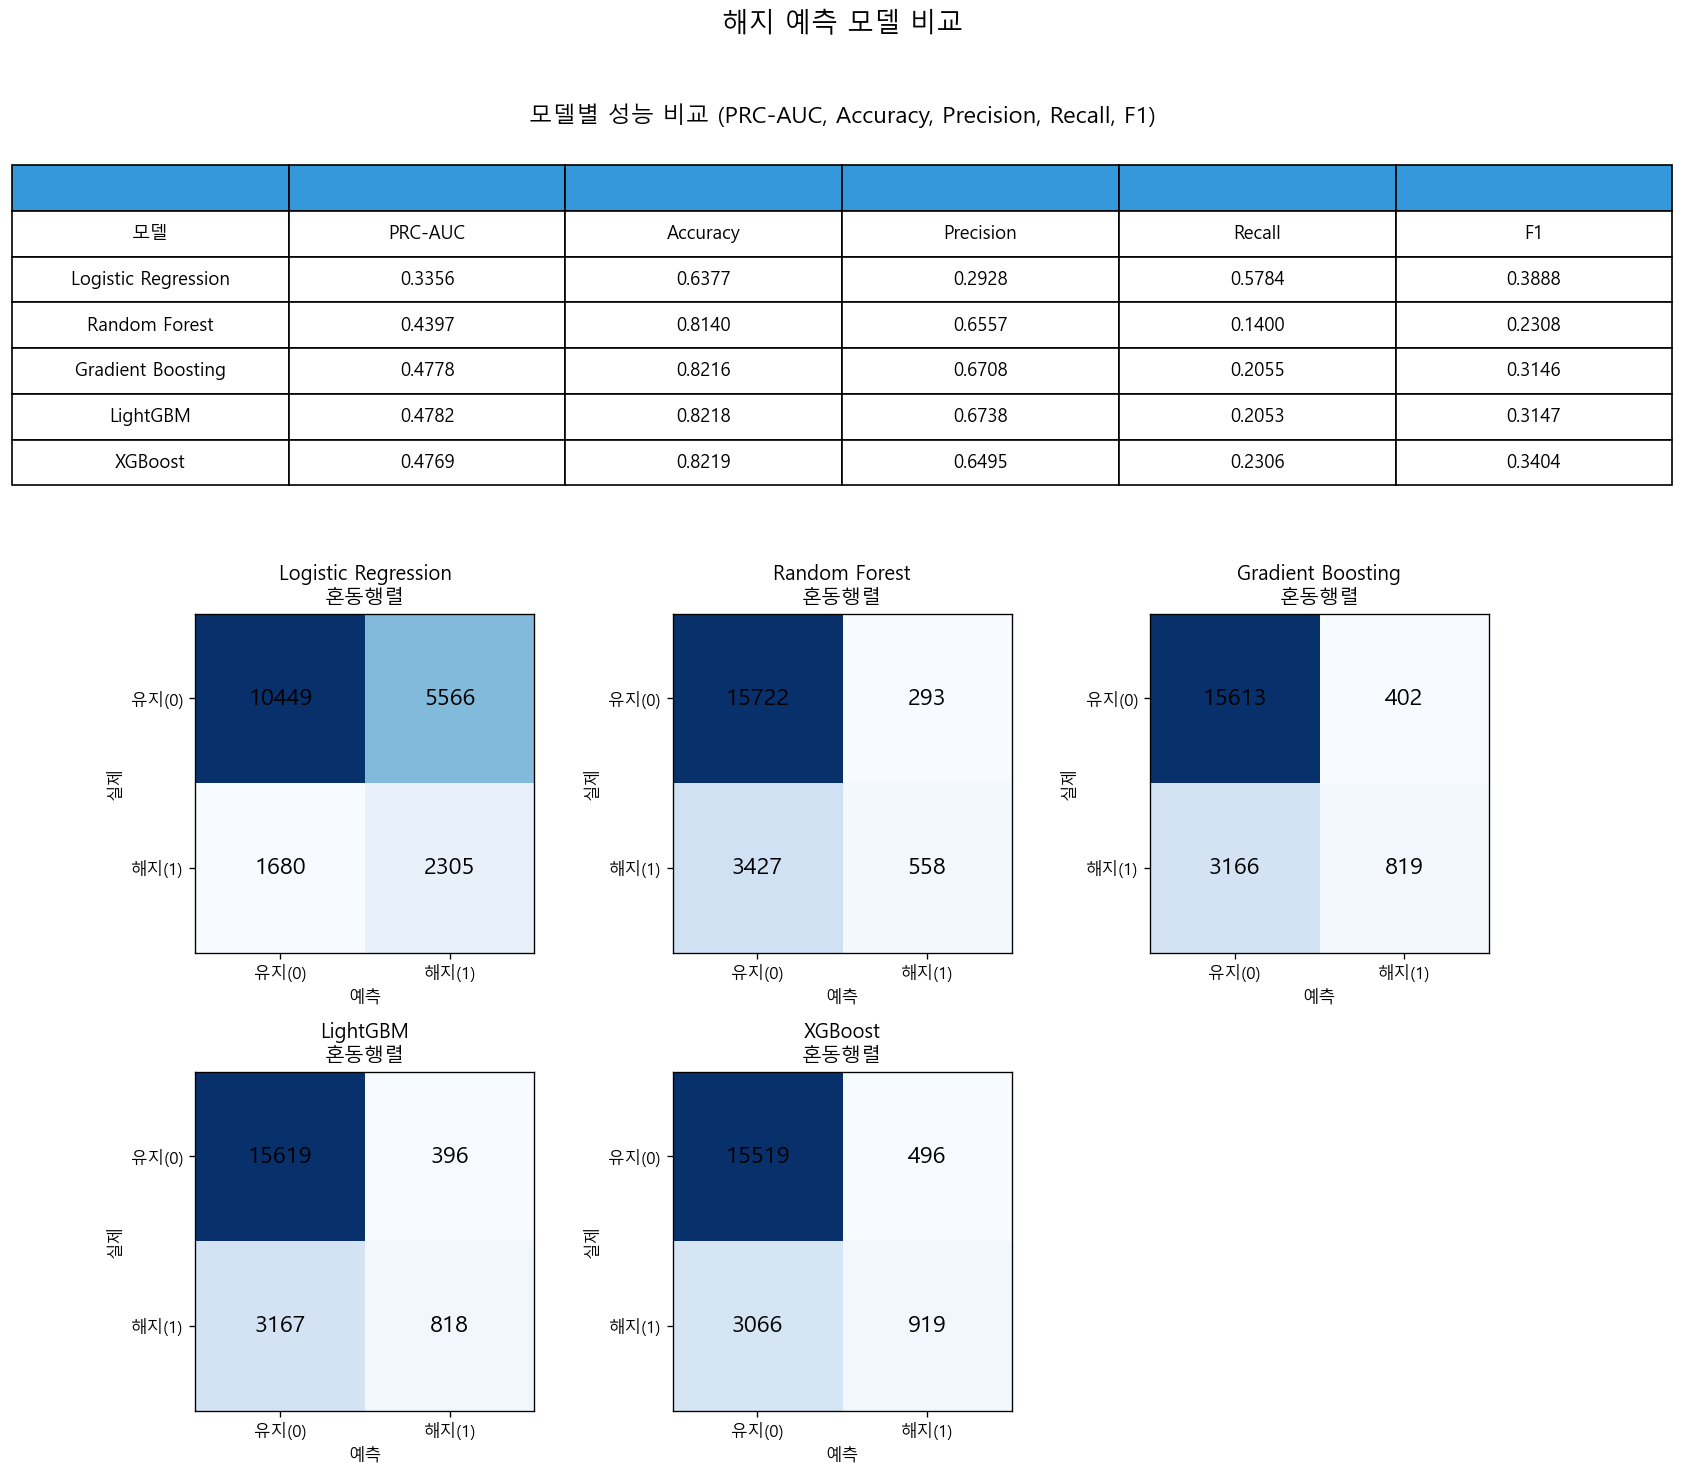
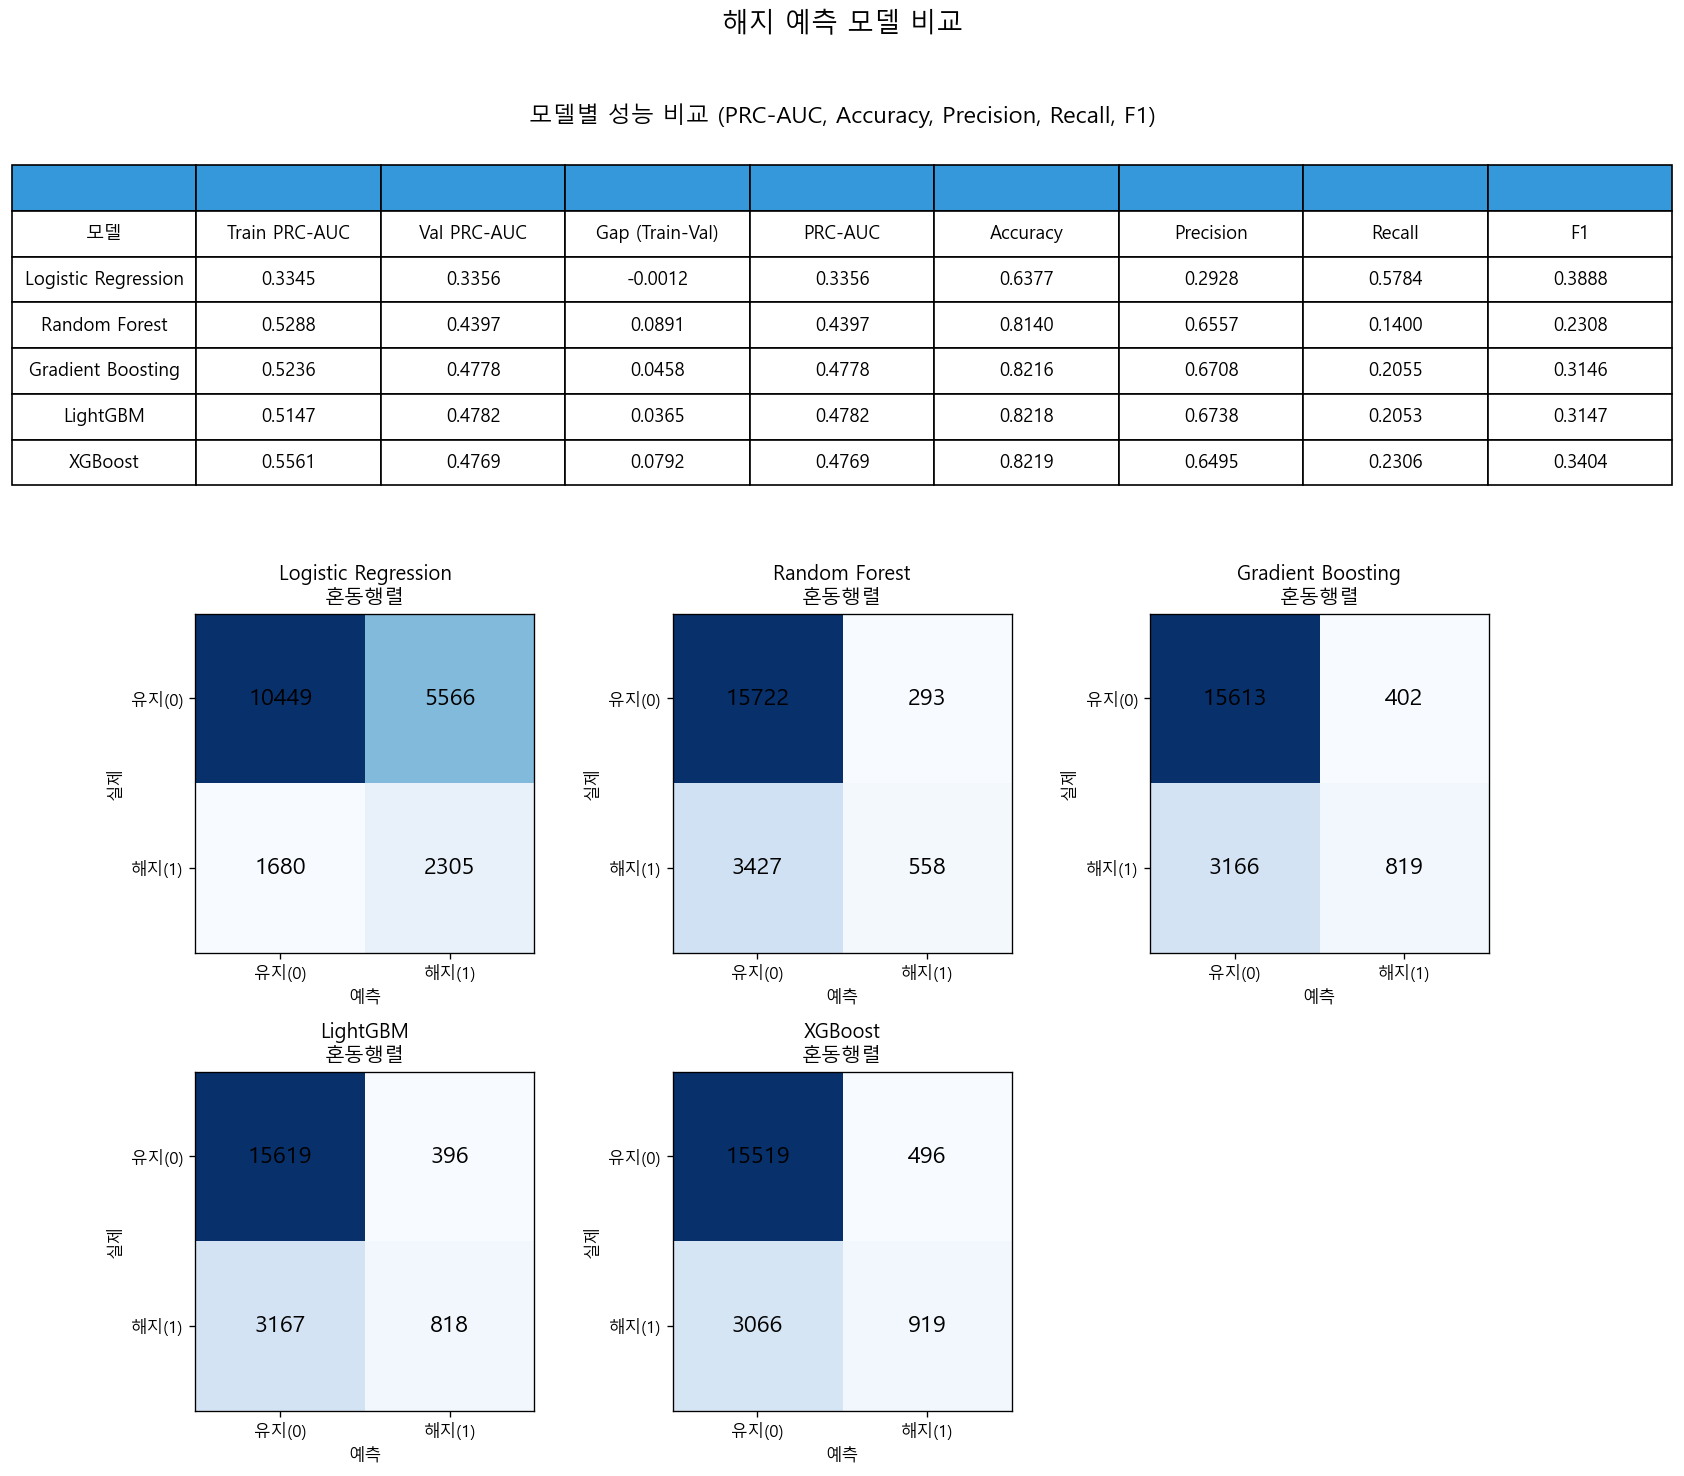
과적합 검증, CT_CL 분포 시각화 및 차이 분석, 결과보고서 업데이트
Made-with: Cursor

diff --git a/plot_ct_cl_by_churn.py b/plot_ct_cl_by_churn.py
@@ -1,0 +1,127 @@
+"""
+해지/유지별 CT_CL(콘텐츠 클래스) 분포 상위 10개 막대그래프 시각화
+- 비율(%) 기준으로 그룹별 차이 비교
+"""
+import json
+import os
+from pathlib import Path
+
+import duckdb
+import matplotlib.font_manager as fm
+import matplotlib.pyplot as plt
+import numpy as np
+
+BASE = Path(__file__).parent
+CHURN_DATASET = BASE / "data" / "processed" / "churn_dataset.parquet"
+VOD_LOG = BASE / "data" / "interim" / "vod_log_clean.parquet"
+CATEGORIES_PATH = BASE / "data" / "interim" / "vod_log_categories.json"
+OUTPUT_PATH = BASE / "output" / "churn_analysis" / "ct_cl_by_churn.png"
+OUTPUT_CSV = BASE / "output" / "churn_analysis" / "ct_cl_diff.csv"
+
+# 한글 폰트
+if os.name == "nt":
+    font_path = os.path.join(os.environ.get("WINDIR", "C:\\Windows"), "Fonts", "malgun.ttf")
+    if os.path.exists(font_path):
+        fm.fontManager.addfont(font_path)
+        prop = fm.FontProperties(fname=font_path)
+        plt.rcParams["font.family"] = prop.get_name()
+plt.rcParams["axes.unicode_minus"] = False
+
+
+def load_ct_cl_reverse_map() -> dict:
+    """CT_CL 코드 → 라벨 역매핑"""
+    if not CATEGORIES_PATH.exists():
+        return {i: str(i) for i in range(20)}
+    with open(CATEGORIES_PATH, encoding="utf-8") as f:
+        cat = json.load(f)
+    ct_cl = cat.get("CT_CL", {})
+    return {int(v): k for k, v in ct_cl.items()}
+
+
+def main():
+    rev_map = load_ct_cl_reverse_map()
+
+    con = duckdb.connect(":memory:")
+
+    # churn_dataset의 sha2_hash, cancel_yn + vod_log의 CT_CL 조인
+    # cancel_yn: 0=유지, 1=해지
+    df = con.execute(
+        """
+        SELECT c.cancel_yn, vl.CT_CL, COUNT(*) AS cnt
+        FROM read_parquet(?) c
+        INNER JOIN read_parquet(?) vl ON c.sha2_hash = vl.sha2_hash
+        WHERE vl.CT_CL IS NOT NULL
+        GROUP BY c.cancel_yn, vl.CT_CL
+        ORDER BY c.cancel_yn, cnt DESC
+        """,
+        [str(CHURN_DATASET), str(VOD_LOG)],
+    ).fetchdf()
+
+    con.close()
+
+    # 그룹별 총 시청 횟수로 비율 계산
+    for cy in [0, 1]:
+        total = df[df["cancel_yn"] == cy]["cnt"].sum()
+        df.loc[df["cancel_yn"] == cy, "pct"] = df.loc[df["cancel_yn"] == cy, "cnt"] / total * 100
+
+    # 전체 상위 10개 CT_CL (유지+해지 합산 기준) → 이 카테고리로 유지/해지 비율 비교
+    all_ct_cl = df.groupby("CT_CL")["cnt"].sum().sort_values(ascending=False).head(10)
+    top10_codes = all_ct_cl.index.tolist()
+
+    # pivot: CT_CL x cancel_yn → pct
+    pivot = df[df["CT_CL"].isin(top10_codes)].pivot(
+        index="CT_CL", columns="cancel_yn", values="pct"
+    ).reindex(top10_codes).fillna(0)
+
+    pct_maintain = pivot[0].values
+    pct_churn = pivot[1].values
+    diff = pct_churn - pct_maintain  # 해지 - 유지 (양수: 해지가 더 높음)
+
+    labels = [rev_map.get(c, str(c)) for c in top10_codes]
+    x = np.arange(len(labels))
+    w = 0.35
+
+    fig, axes = plt.subplots(2, 1, figsize=(12, 10), height_ratios=[1.2, 1])
+
+    # 1) 비율 비교
+    ax1 = axes[0]
+    ax1.bar(x - w / 2, pct_maintain, w, label="유지", color="#3498db", alpha=0.8)
+    ax1.bar(x + w / 2, pct_churn, w, label="해지", color="#e74c3c", alpha=0.8)
+    ax1.set_xticks(x)
+    ax1.set_xticklabels(labels, rotation=45, ha="right", fontsize=10)
+    ax1.set_ylabel("비율 (%)")
+    ax1.set_title("해지/유지별 CT_CL 분포 (그룹 내 비율)")
+    ax1.legend()
+    ax1.grid(axis="y", alpha=0.3)
+
+    # 2) 차이 (해지 - 유지)
+    ax2 = axes[1]
+    colors = ["#e74c3c" if d > 0 else "#3498db" for d in diff]
+    ax2.barh(labels, diff, color=colors, alpha=0.8)
+    ax2.axvline(0, color="black", linewidth=0.8)
+    ax2.set_xlabel("차이 (해지 % - 유지 %p)")
+    ax2.set_title("해지 vs 유지 비율 차이 (양수: 해지가 더 많이 시청)")
+    ax2.invert_yaxis()
+    ax2.grid(axis="x", alpha=0.3)
+
+    plt.tight_layout()
+
+    OUTPUT_PATH.parent.mkdir(parents=True, exist_ok=True)
+    plt.savefig(OUTPUT_PATH, dpi=120, bbox_inches="tight")
+    plt.close()
+
+    # CSV 저장
+    diff_df = pivot.copy()
+    diff_df.columns = ["유지(%)", "해지(%)"]
+    diff_df.index = labels
+    diff_df["차이(해지-유지 %p)"] = diff
+    diff_df = diff_df.round(2)
+    diff_df.to_csv(OUTPUT_CSV, encoding="utf-8-sig")
+    print(f"저장: {OUTPUT_PATH}")
+    print(f"저장: {OUTPUT_CSV}")
+    print("\n[CT_CL 차이 요약]")
+    print(diff_df.to_string())
+
+
+if __name__ == "__main__":
+    main()

diff --git a/churn_analysis.py b/churn_analysis.py
@@ -290,6 +290,52 @@ def plot_hypothesis_results(results: list[dict], top5: list[str]):
     print(f"저장: {OUTPUT_DIR / 'hypothesis_effect_size.png'}")
 
 
+def plot_overfitting_check(results: list[dict]) -> None:
+    """Train vs Val PRC-AUC 비교로 과적합 검증 시각화"""
+    OUTPUT_DIR.mkdir(parents=True, exist_ok=True)
+    names = [r["모델"] for r in results]
+    train_prc = [r["Train PRC-AUC"] for r in results]
+    val_prc = [r["Val PRC-AUC"] for r in results]
+    gaps = [r["Gap (Train-Val)"] for r in results]
+
+    fig, axes = plt.subplots(1, 2, figsize=(14, 5))
+
+    # 1) Train vs Val 막대 그래프
+    x = np.arange(len(names))
+    w = 0.35
+    ax1 = axes[0]
+    bars1 = ax1.bar(x - w / 2, train_prc, w, label="Train PRC-AUC", color="#3498db", alpha=0.8)
+    bars2 = ax1.bar(x + w / 2, val_prc, w, label="Val PRC-AUC", color="#e74c3c", alpha=0.8)
+    ax1.set_xticks(x)
+    ax1.set_xticklabels(names, rotation=30, ha="right")
+    ax1.set_ylabel("PRC-AUC")
+    ax1.set_title("과적합 검증: Train vs Validation PRC-AUC")
+    ax1.legend()
+    ax1.axhline(0.2, color="gray", linestyle=":", alpha=0.5, label="baseline(prior~0.2)")
+    ax1.grid(axis="y", alpha=0.3)
+
+    # 2) Gap (Train - Val): 클수록 과적합
+    ax2 = axes[1]
+    colors = ["#e74c3c" if g > 0.1 else "#2ecc71" for g in gaps]
+    ax2.barh(names, gaps, color=colors, alpha=0.8)
+    ax2.set_xlabel("Gap (Train PRC-AUC - Val PRC-AUC)")
+    ax2.set_title("과적합 지표: Gap > 0.1이면 과적합 의심")
+    ax2.axvline(0.1, color="red", linestyle="--", alpha=0.7)
+    ax2.invert_yaxis()
+    ax2.grid(axis="x", alpha=0.3)
+
+    plt.tight_layout()
+    plt.savefig(OUTPUT_DIR / "overfitting_check.png", dpi=120, bbox_inches="tight")
+    plt.close()
+
+    # 콘솔 출력
+    print("\n[과적합 검증] Train vs Val PRC-AUC:")
+    for r in results:
+        status = "[!] 과적합 의심" if r["Gap (Train-Val)"] > 0.1 else "[OK] 양호"
+        print(f"  {r['모델']}: Train={r['Train PRC-AUC']:.4f}, Val={r['Val PRC-AUC']:.4f}, Gap={r['Gap (Train-Val)']:.4f} {status}")
+    print(f"저장: {OUTPUT_DIR / 'overfitting_check.png'}")
+
+
 def compare_models_and_save(
     df: pd.DataFrame, top10: list[str], numeric: list, categorical: list
 ) -> None:
@@ -322,12 +368,20 @@ def compare_models_and_save(
         model.fit(X_train, y_train)
         y_pred = model.predict(X_val)
         y_proba = model.predict_proba(X_val)[:, 1]
+        y_proba_train = model.predict_proba(X_train)[:, 1]
+
+        train_prc = average_precision_score(y_train, y_proba_train)
+        val_prc = average_precision_score(y_val, y_proba)
+        gap = train_prc - val_prc
 
         cm = confusion_matrix(y_val, y_pred)
         cms[name] = cm
         results.append({
             "모델": name,
-            "PRC-AUC": average_precision_score(y_val, y_proba),
+            "Train PRC-AUC": train_prc,
+            "Val PRC-AUC": val_prc,
+            "Gap (Train-Val)": gap,
+            "PRC-AUC": val_prc,  # Val과 동일 (보고서 호환)
             "Accuracy": accuracy_score(y_val, y_pred),
             "Precision": precision_score(y_val, y_pred, zero_division=0),
             "Recall": recall_score(y_val, y_pred, zero_division=0),
@@ -378,6 +432,9 @@ def compare_models_and_save(
     plt.close()
     pd.DataFrame(results).to_csv(OUTPUT_DIR / "model_comparison.csv", index=False, encoding="utf-8-sig")
     print(f"저장: {OUTPUT_DIR / 'model_comparison.png'}")
+
+    # 과적합 검증: Train vs Val PRC-AUC
+    plot_overfitting_check(results)
 
 
 def plot_prc_auc_by_k(results_by_k: list[tuple[int, float]]):

diff --git a/결과보고서.md b/결과보고서.md
@@ -252,6 +252,27 @@
 - 각 모델별 혼동행렬(유지/해지 예측 vs 실제)은 `output/churn_analysis/model_comparison.png` 참조
 
 
+### 7-3. CT_CL 비율 차이 (해지 - 유지)
+
+| CT_CL | 유지(%) | 해지(%) | 차이(%p) |
+|-------|---------|---------|----------|
+| TV드라마 | 28.87 | 31.14 | **+2.27** |
+| 영화 | 22.57 | 21.76 | -0.82 |
+| TV 연예/오락 | 18.26 | 18.15 | -0.12 |
+| 기타 | 11.15 | 9.98 | -1.17 |
+| 키즈 | 6.23 | 6.47 | +0.25 |
+| TV 시사/교양 | 5.14 | 5.25 | +0.11 |
+| TV애니메이션 | 4.94 | 4.61 | -0.33 |
+| 성인 | 1.94 | 1.90 | -0.04 |
+| 다큐 | 0.39 | 0.26 | -0.13 |
+| 우리동네 | 0.23 | 0.30 | +0.08 |
+
+*차이 = 해지 비율 - 유지 비율 (양수: 해지 그룹이 더 많이 시청)*
+
+- **해지 그룹이 더 높음**: TV드라마(+2.27%p), 키즈(+0.25%p), TV 시사/교양(+0.11%p), 우리동네(+0.08%p)
+- **유지 그룹이 더 높음**: 기타(-1.17%p), 영화(-0.82%p), TV애니메이션(-0.33%p), 다큐(-0.13%p)
+
+
 ---
 
 ## 8. 분석 결과물
@@ -265,6 +286,7 @@
 | 가설검정 p-value | `output/churn_analysis/hypothesis_pvalue.png` |
 | 효과 크기 | `output/churn_analysis/hypothesis_effect_size.png` |
 | 가설검정 요약 | `output/churn_analysis/hypothesis_summary.csv` |
+| CT_CL 분포 | `output/churn_analysis/ct_cl_by_churn.png`, `ct_cl_diff.csv` |
 
-*분석 스크립트: `churn_analysis.py`*
+*분석 스크립트: `churn_analysis.py`, `plot_ct_cl_by_churn.py`*
 
